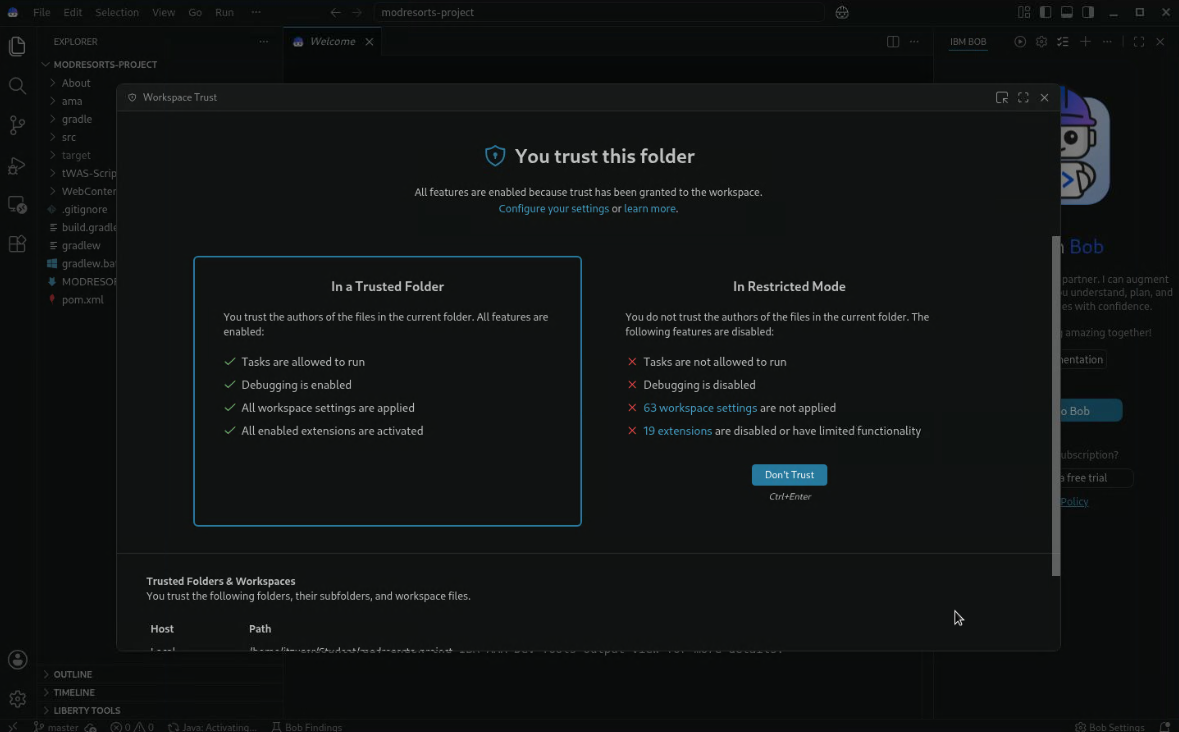
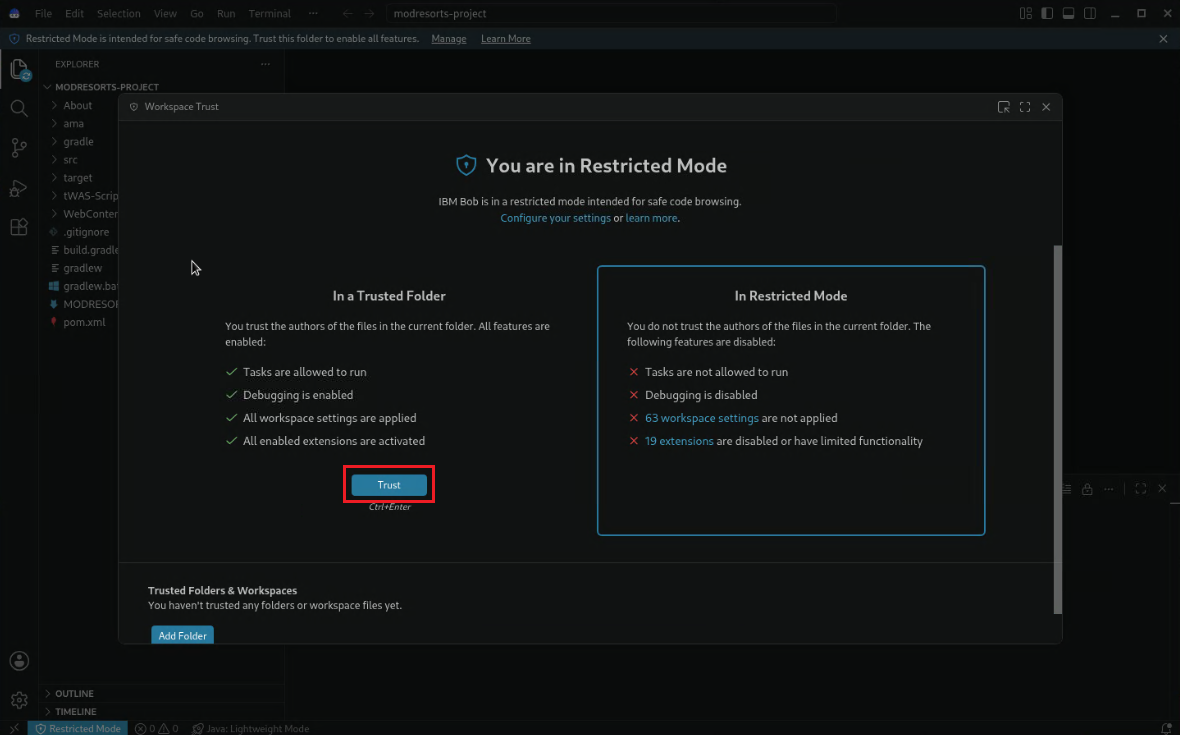
Update text

diff --git a/README.md b/README.md
@@ -783,45 +783,32 @@ Now you will use AMA Dev Tools to do the required code changes. AMA Dev Tools wi
 
         The IBM Bob IDE will be opened.
 
-    2. You might see the one or other panel:
-    
-        1. If you get a pop-up that Authentication is required, enter **IBMDem0s!** in both fields and select **Continue**.
-    
-            <kbd>![Bob_Keyring.png](./images/media/Bob_Keyring.png)</kbd>
+        If you get a Welcome panel offering to import settings, click on **Skip for now**,
 
-        2. If you get a pop-up that Authentication is required, click on **Yes, I trust the authors** to continue.
+        <kbd>![Bob_Import_Panel.png](./images/media/Bob_Import_Panel.png)</kbd>
+        
 
-            <kbd>![Bob_TrustAuthor.png](./images/media/Bob_TrustAuthor.png)</kbd>
+    2. If you get a pop-up that a Bob update is available, click on settings and select **Keep current version**.
 
-        3. If you get a pop-up that a Bob update is available, click on settings and select **Keep current version**.
+        <kbd>![Bob_UpdateAvailable.png](./images/media/Bob_UpdateAvailable.png)</kbd>
 
-            <kbd>![Bob_UpdateAvailable.png](./images/media/Bob_UpdateAvailable.png)</kbd>
+        <kbd>![Bob_Keep_current_version.png](./images/media/Bob_Keep_current_version.png)</kbd>
+       
 
-            <kbd>![Bob_Keep_current_version.png](./images/media/Bob_Keep_current_version.png)</kbd>
+    3. If you get a **Bob Getting Started** panel, close it:
 
+        <kbd>![Bob_Getting_Started.png](./images/media/Bob_Getting_Started.png)</kbd>
 
-    3. On the Welcome Panel you can open the Walkthrough to get more insight into IBM Bob. Feel free to open it.
-
-        <kbd>![Bob_Welcome.png](./images/media/Bob_Welcome.png)</kbd>
-
-    Finally, close the **Welcome** panel. 
-
-    4. Under settings, you can change the theme. The lab document uses as color **Bob Theme**. Feel free to adjust the theme to your choice. 
-
-        <kbd>![Bob_Change_Theme.png](./images/media/Bob_Change_Theme.png)</kbd>
-
-    
-    5. If you see during the lab a pop-up like below or any other pop-up asking to install something, close the pop-up without installation by clicking the **X**. 
+    4. If you see during the lab a pop-up like below or any other pop-up asking to install something, close the pop-up without installation by clicking the **X**. 
 
         <kbd>![Bob_Popup2.png](./images/media/Bob_Popup2.png)</kbd>
 
 
-    6. Look at the bottom left of your Bobide window to find out if Bobide runs in Restricted Mode.
-
+    5. Look at the bottom left of your Bobide window to find out if Bobide runs in Restricted Mode.
 
         <kbd>![Bob_RestrictedMode2.png](./images/media/Bob_RestrictedMode2.png)</kbd>
 
-        If so, click on the field *Restricted Mode* to open the panel.
+        If so, click on the field **Restricted Mode** to open the panel.
 
         <kbd>![Bob_RestrictedMode1.png](./images/media/Bob_RestrictedMode1.png)</kbd>
 
@@ -831,6 +818,18 @@ Now you will use AMA Dev Tools to do the required code changes. AMA Dev Tools wi
         Finally close the pop-up by clicking on **X**.
         <kbd>![Bob_RestrictedMode4.png](./images/media/Bob_RestrictedMode4.png)</kbd>
 
+        If you used Bob before, you might see a **Migration** panel like this:
+
+        <kbd>![Bob_Skip_Migration.png](./images/media/Bob_Skip_Migration.png)</kbd>
+
+        Click on **Skip migration** to continue.
+
+        
+    4. The lab document uses the color theme **Bob Theme**. If you want to change your theme, you can do so under settings. 
+
+        <kbd>![Bob_Change_Theme.png](./images/media/Bob_Change_Theme.png)</kbd>
+
+    
 
 3. Take a look at the installed extensions
 
